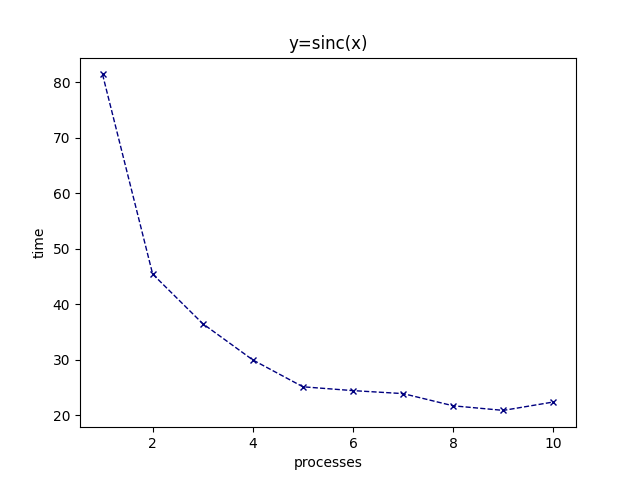
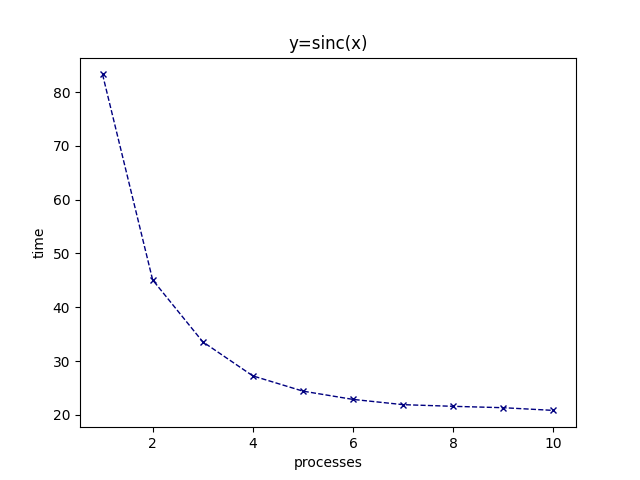
fix some error and PEP

diff --git a/lab_4/main.py b/lab_4/main.py
@@ -2,28 +2,23 @@ import json
 import argparse
 
 from card import create_card_number
-from measure_time import mark_global_point , load_statistics, measure_time
-from luhn import Luhn
+from measure_time import mark_global_point , read_statistics, measure_time
+from luna import Luna
 
 
 if __name__ == "__main__":
     parser = argparse.ArgumentParser()
     group = parser.add_mutually_exclusive_group(required=True)
-    group.add_argument('-card', '--card_number_enumeration', type=int, nargs='?', const=6,
-                       help='Ищет номер карты с помощью хеша')
-    group.add_argument('-sta', '--statistics', action='store_true',
-                       help='Получается статистику подбирая номер карты на разном количестве процессов')
-    group.add_argument('-lun', '--lunh_algorithm', action='store_true',
-                       help='Проверяет валидность номера карты с помощью алгоритма Луна')
-    group.add_argument('-vis', '--visualize_statistics', action='store_true',
-                       help='Создает гистограмму по имеющейся статистике')
+    group.add_argument('-card', '--card_number_enumeration', type=int, nargs='?', const=6, help='Ищет номер карты с помощью хеша')
+    group.add_argument('-sta', '--statistics', action='store_true', help='Получается статистику подбирая номер карты на разном количестве процессов')
+    group.add_argument('-lun', '--luna_algorithm', action='store_true', help='Проверяет валидность номера карты с помощью алгоритма Луна')
+    group.add_argument('-vis', '--visualize_statistics', action='store_true', help='Создает гистограмму по имеющейся статистике')
     args = parser.parse_args()
     try:
         with open("settings.json", "r", encoding='UTF-8') as f:
             settings = json.load(f)
     except Exception as ex:
         raise Exception(f"Не удалось считать данные!{ex}")
-    
     hash_number = settings['hash']
     bins = settings['bins']
     last_four_numbers = settings['last_four_numbers']
@@ -33,20 +28,18 @@ if __name__ == "__main__":
     if args.card_number_enumeration:
         card_number = create_card_number(hash_number, bins, last_four_numbers, 6)
         if card_number:
-            print(f"Номер карты успешно найден: {card_number}")
             with open(card_file, 'w') as f:
                 f.write(card_number)
         else:
             print("Не удалось найти номер карты")
     elif args.statistics:
         measure_time(hash_number, bins, last_four_numbers, file_statistic)
-    elif args.lunh_algorithm:
+    elif args.luna_algorithm:
         with open(card_file, 'r') as f:
             card_number = f.read()
-        if Luhn(card_number):
+        if Luna(card_number):
             print("Номер карты действителен")
         else:
             print("Номер карты не действителен")
     elif args.visualize_statistics:
-        mark_global_point(load_statistics(file_statistic), png_file)
-        print("Гистограмма успешно создана")
+        mark_global_point(read_statistics(file_statistic), png_file)

diff --git a/lab_4/measure_time.py b/lab_4/measure_time.py
@@ -7,7 +7,7 @@ from matplotlib import pyplot as plt
 from card import create_card_number
 
 
-def load_statistics(file_name: str) -> dict:
+def read_statistics(file_name: str) -> dict:
     """
     Функция считывает статистику из файла
     file_name: Имя файла для чтения данных
@@ -25,7 +25,7 @@ def load_statistics(file_name: str) -> dict:
         result[int(processes)] = float(time)
     return result
 
-def write_statistics(processes: int, time: float, file_name: str) -> None:
+def write_statistics(data, file_name: str) -> None:
     """
     Записывает статистику в файл JSON.
     processes: Количество используемых процессов
@@ -33,14 +33,8 @@ def write_statistics(processes: int, time: float, file_name: str) -> None:
     file_name: Имя файла для записи данных
     """
     try:
-        if os.path.exists(file_name) and os.path.getsize(file_name) > 0:
-            with open(file_name, 'r') as f:
-                stats = json.load(f)
-        else:
-            stats = {}
-        stats[processes] = time
         with open(file_name, 'w') as f:
-            json.dump(stats, f)
+            json.dump(data, f)
     except Exception as ex:
         raise Exception(f"Не удалось записать статистику: {ex}")
 
@@ -49,11 +43,13 @@ def measure_time(hash_number: str, bins: list, last_four_numbers: str, file_stat
     Замерить время для поиска коллизии хеша при различном числе процессов
 
     """
+    time_dict={}
     for i in range(1, 11):
-        t1 = time.time()
+        time_begin = time.time()
         create_card_number(hash_number, bins, last_four_numbers, i)
-        t2 = time.time()
-        write_statistics(i, t2 - t1, file_statistic)
+        time_end = time.time()
+        time_dict[i]=time_end-time_begin
+    write_statistics(time_dict, file_statistic)
     print("Статистика успешно посчитана")
 
 def mark_global_point(statistics: dict, file_name: str) -> None:

diff --git a/lab_4/card.py b/lab_4/card.py
@@ -6,12 +6,13 @@ def check_card_number(args) -> str:
     """
     Проверяет, соответствует ли номер карты исходному хешу.
     args: Кортеж, содержащий center_part, bins, last_four_numbers, original_hash
+    Return: номер карты
     """
     center_part, bins, last_four_numbers, original_hash = args
     for bin_part in bins:
-        card_number = f"{bin_part}{str(center_part).zfill(6)}{last_four_numbers}"
+        card_number = str(bin_part)+str(center_part).zfill(6)+str(last_four_numbers)
         if hashlib.blake2b(card_number.encode()).hexdigest() == original_hash:
-            return card_number
+            return card_number 
     return None
 
 def create_card_number(original_hash: str, bins: list, last_four_numbers: str, core_number: int = mp.cpu_count()) -> str:
@@ -20,11 +21,11 @@ def create_card_number(original_hash: str, bins: list, last_four_numbers: str, c
     bins: Список BINs
     last_four_numbers: Последние четыре цифры номера карты
     core_number: Количество ядер, используемых для многопроцессорной обработки
+    Return: номер карты
     """
     with mp.Pool(core_number) as pool:
-        args = [(i, bins, last_four_numbers, original_hash) for i in range(0, 1000000)]
-        results = pool.map(check_card_number, args)
-        for result in results:
+        args = [(i, bins, last_four_numbers, original_hash) for i in range(1000000)]
+        for result in pool.map(check_card_number, args):
             if result:
                 pool.terminate() 
                 return result

diff --git a/lab_4/luna.py b/lab_4/luna.py
@@ -1,4 +1,4 @@
-def Luhn(card_number: str) -> bool:
+def Luna(card_number: str) -> bool:
     """
     Проверка валидности номера карты с помощью алгоритма Луна
     card_number: Номер карты
